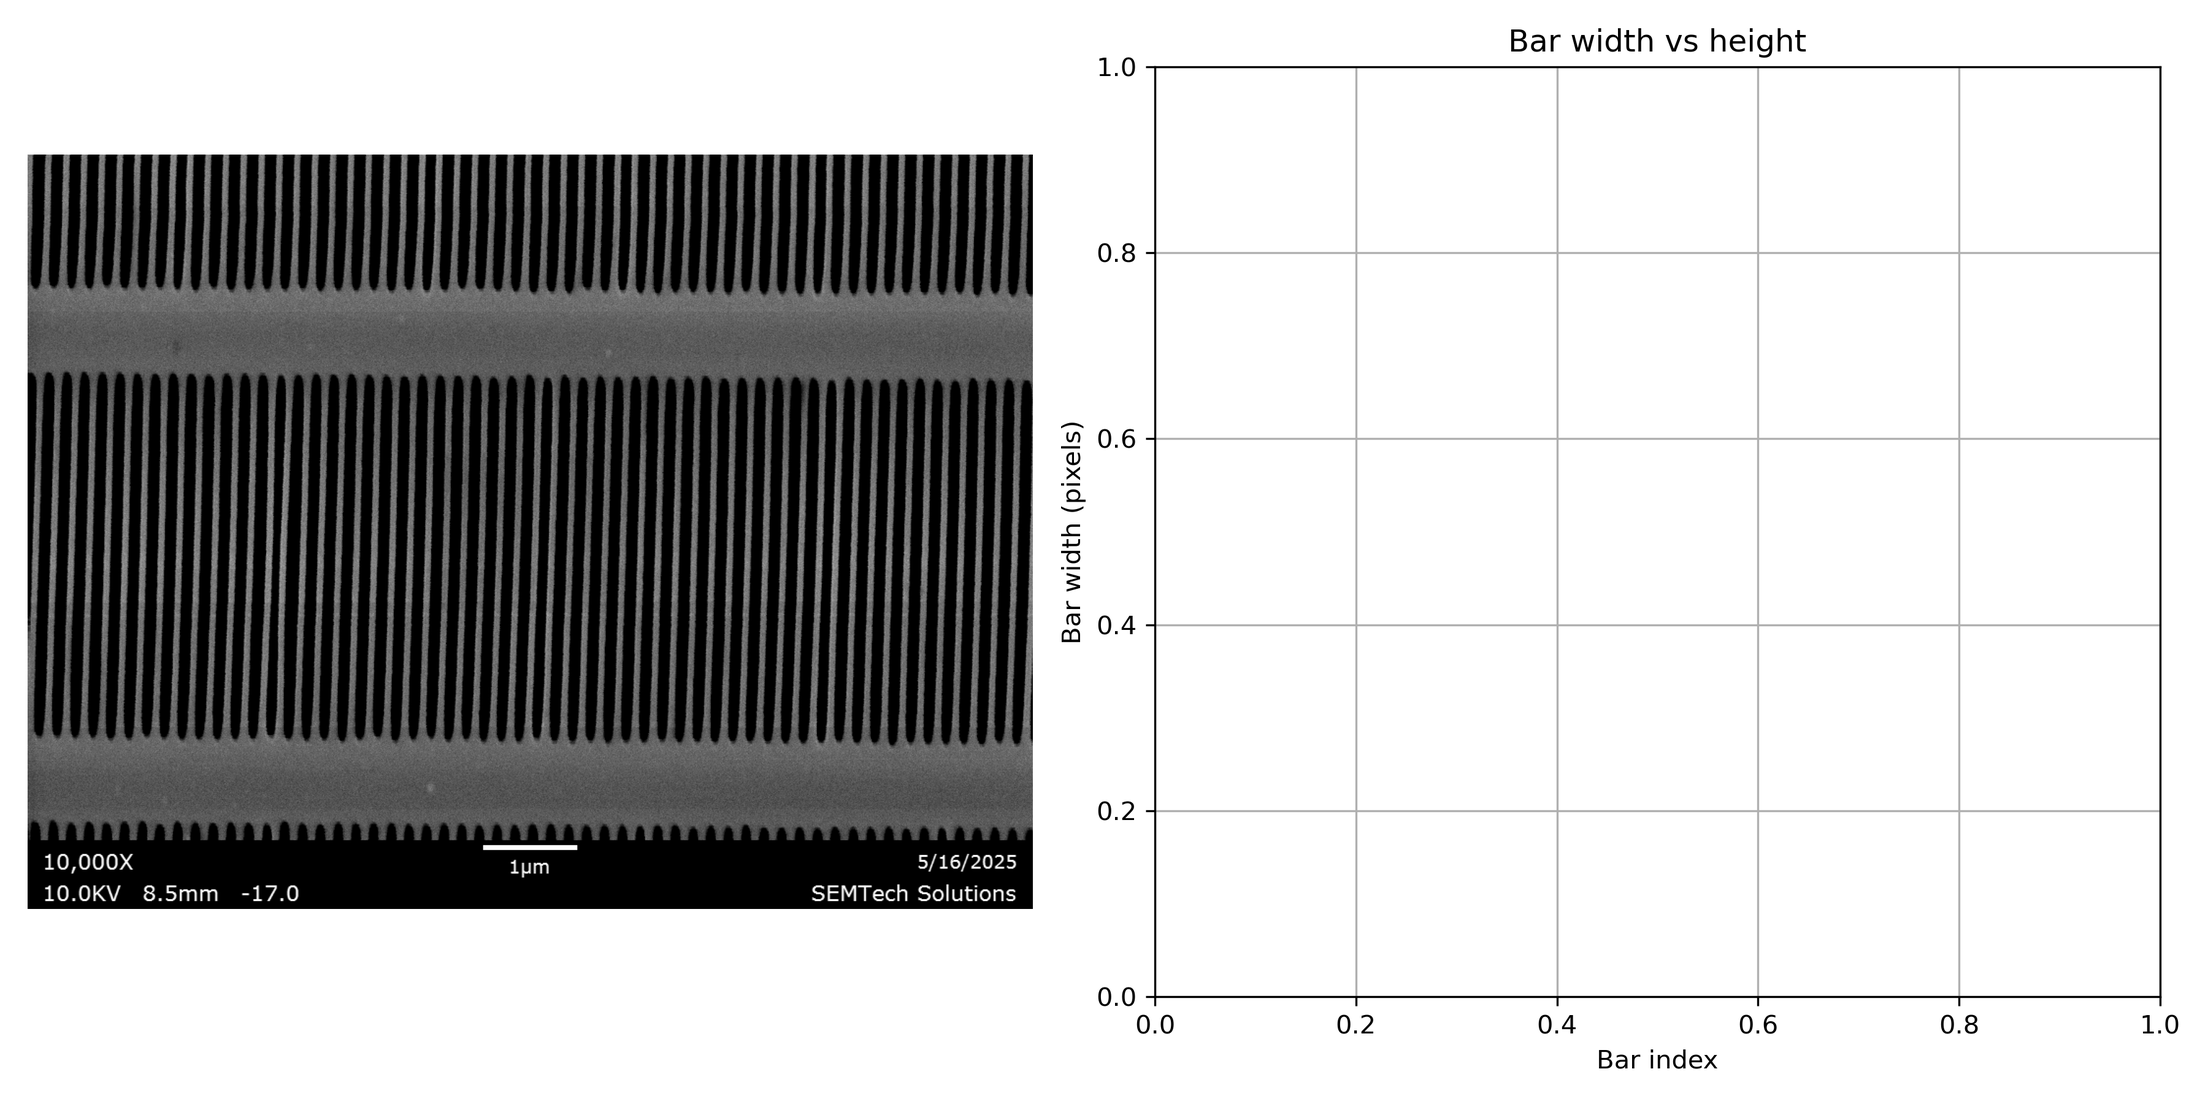
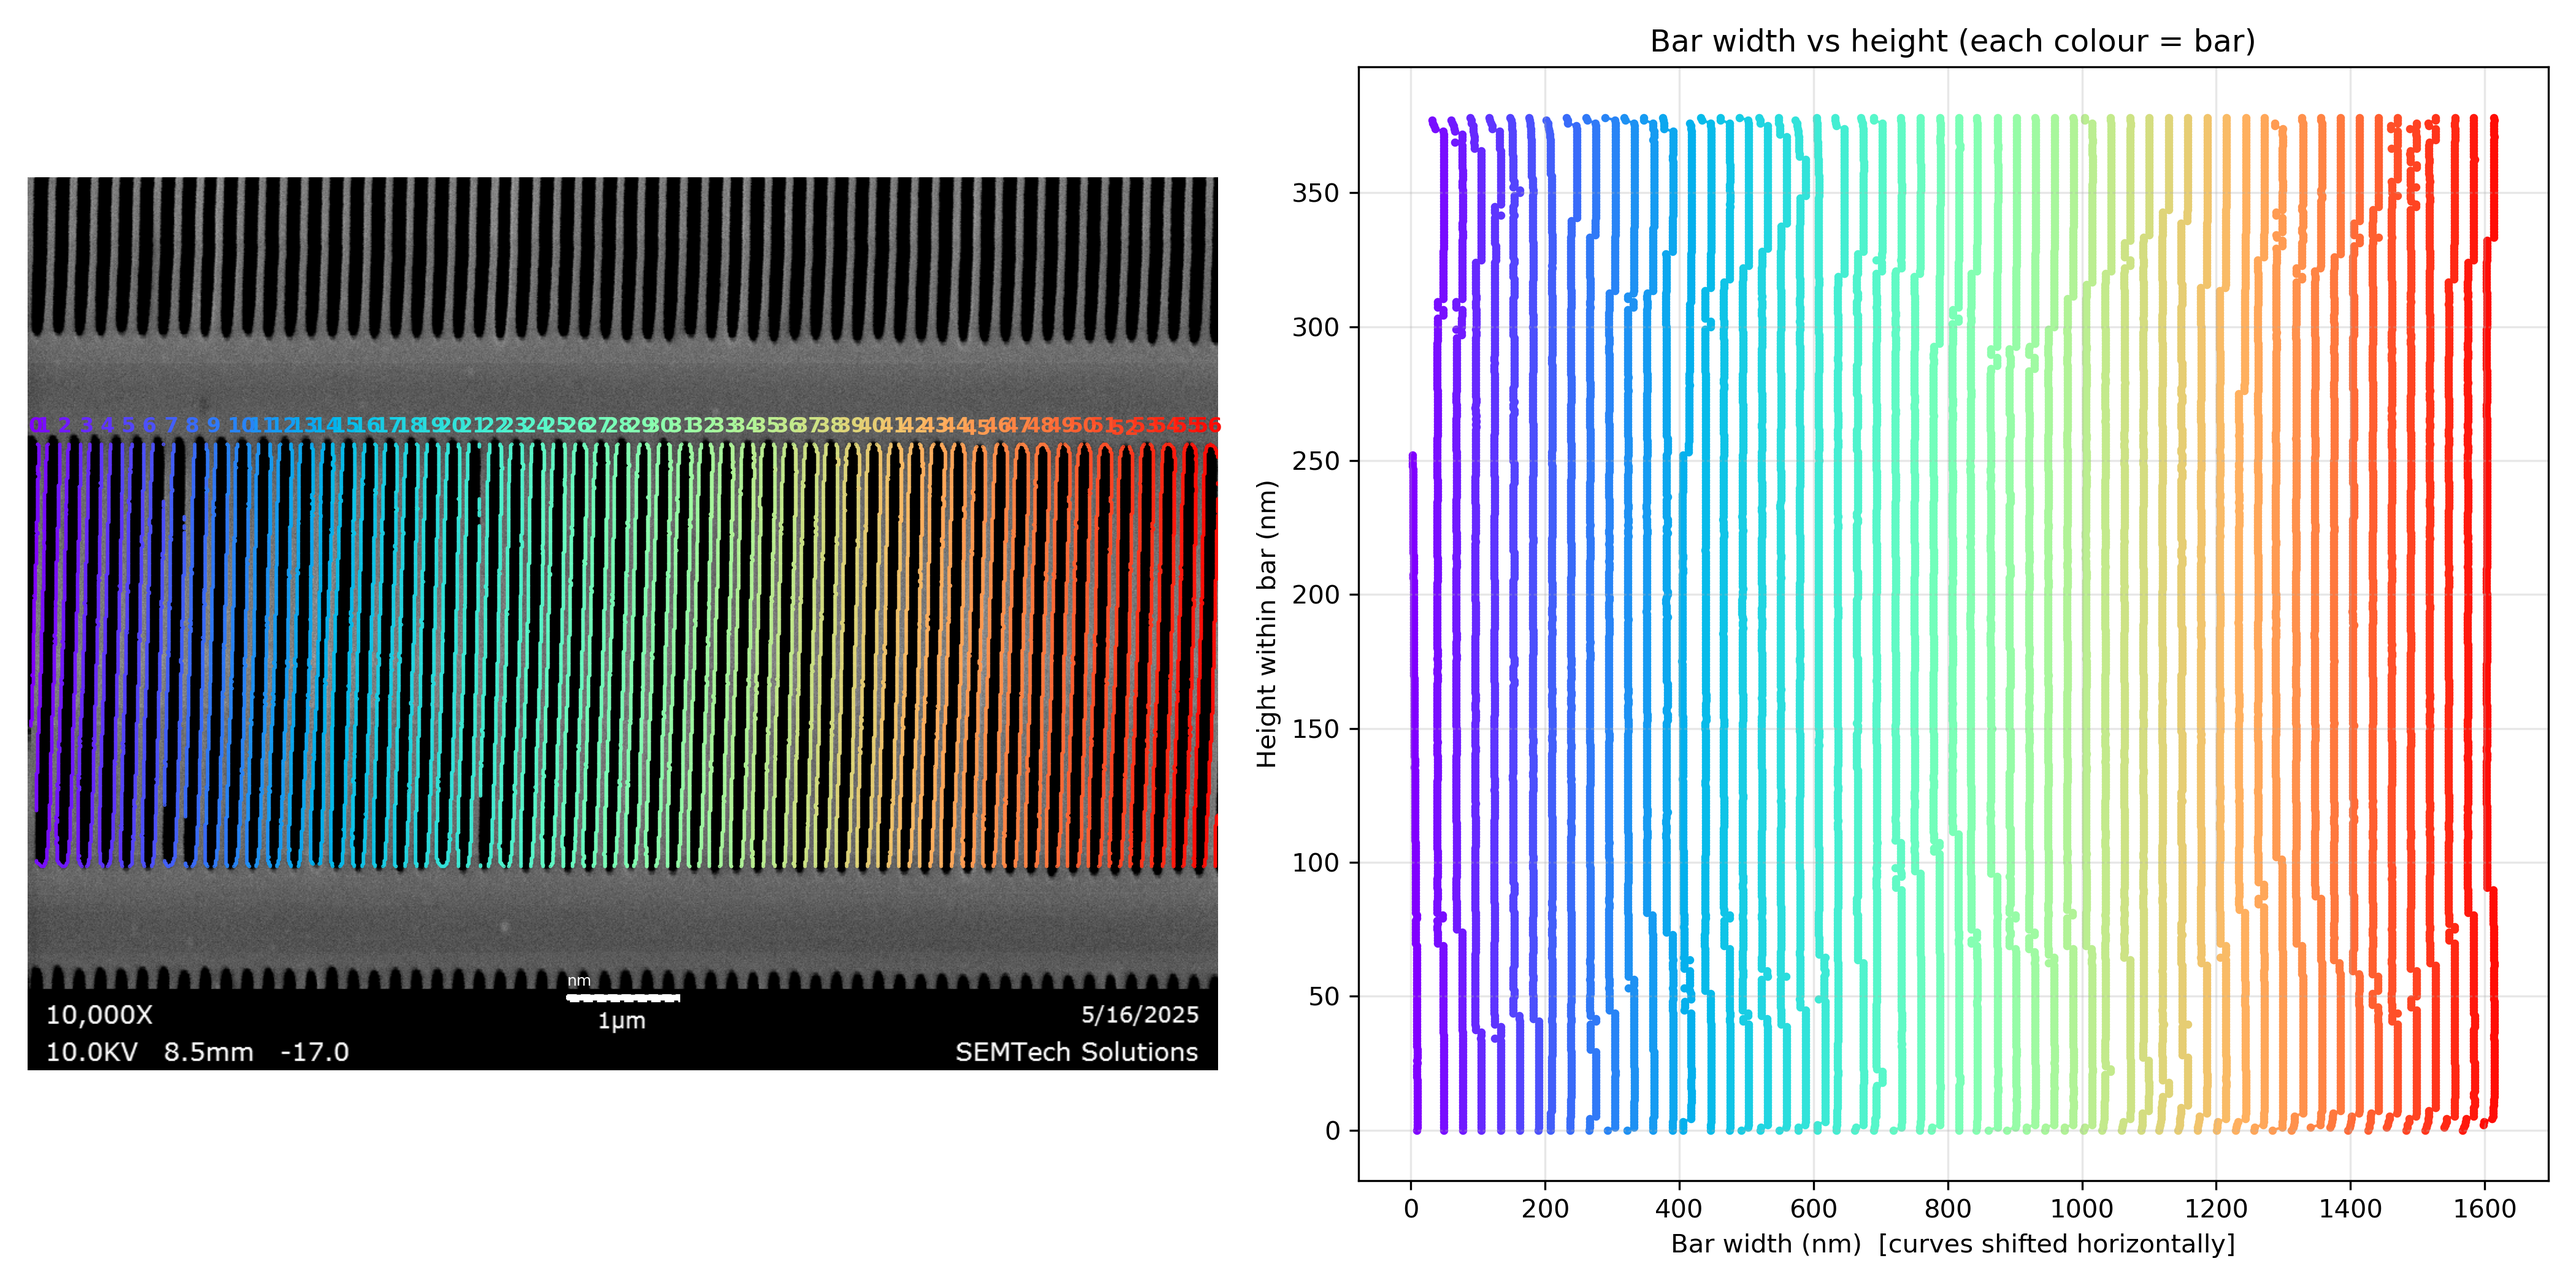
updated code for zoomed out images

diff --git a/src/analyze_barwidth.py b/src/analyze_barwidth.py
@@ -25,22 +25,44 @@ def analyze_image(img_path: Path, out_dir: Path, debug: bool = False, smooth: in
     # Binarize image
     bin_img = binarize_image(img)
 
-    # Detect if this is unzoomed (multiple rows) or zoomed (single row)
-    rows = [get_middle_row_region(bin_img)]  # default assume one row: middle
-    # Heuristic: if detected rows count >=3 we treat as unzoomed, else zoomed
-    # This is handled inside get_middle_row_region. For analysis we'll just use middle row.
-    y0, y1 = rows[0]
-    crop_bin = bin_img[y0:y1]
+    # No assumption about contrast polarity: handled later by variant selection.
 
-    # Find bars in cropped binary image
-    bars_bboxes = find_bars(crop_bin)
-    # Offset bbox y coords by y0
-    bars_bboxes = [(b[0] + y0, b[1], b[2] + y0, b[3]) for b in bars_bboxes]
+    # ------------------------------------------------------------------
+    # Attempt detection on both the **original** and **inverted** binary
+    # images and choose whichever variant yields more (reasonable) bars.
+    # This handles both contrast polarities (bars bright vs bars dark).
+    # ------------------------------------------------------------------
+
+    import cv2  # local import – avoids circular deps in some environments
+
+    variants = [
+        ("orig", bin_img),
+        ("inv", cv2.bitwise_not(bin_img)),
+    ]
+
+    best = None  # tuple(mask, bars_bboxes_in_crop, y0, y1)
+
+    for name, mask in variants:
+        y0_var, y1_var = get_middle_row_region(mask)
+        crop = mask[y0_var:y1_var]
+        bars = find_bars(crop)
+
+        if best is None or len(bars) > len(best[1]):
+            best = (mask, bars, y0_var, y1_var)
+
+    # Unpack best variant
+    bin_mask_for_measure, bars_bboxes_crop, y0_best, y1_best = best
+
+    # Offset bbox y coords by y0_best to original-image coordinates
+    bars_bboxes = [(b[0] + y0_best, b[1], b[2] + y0_best, b[3]) for b in bars_bboxes_crop]
+
+    # Binary mask in boolean form for width measurement
+    mask_bool = bin_mask_for_measure > 0
 
     # Measure widths per bar (in pixels)
     bar_measurements_px: List[Tuple[np.ndarray, np.ndarray]] = []
     for bbox in bars_bboxes:
-        ys_rel, widths = measure_widths(bin_img > 0, bbox)
+        ys_rel, widths = measure_widths(mask_bool, bbox)
         bar_measurements_px.append((ys_rel, widths))
 
     # Optional smoothing
@@ -72,7 +94,7 @@ def analyze_image(img_path: Path, out_dir: Path, debug: bool = False, smooth: in
 
     # Plot results
     out_path = out_dir / f"{img_path.stem}_analysis.png"
-    plot_results(img, bin_img, bars_bboxes, bar_measurements, out_path, units=units, scale_bar_bbox=sb_bbox)
+    plot_results(img, bin_mask_for_measure, bars_bboxes, bar_measurements, out_path, units=units, scale_bar_bbox=sb_bbox)
 
     if debug:
         print(f"Processed {img_path.name}: {len(bars_bboxes)} bars found. Output saved to {out_path}")
